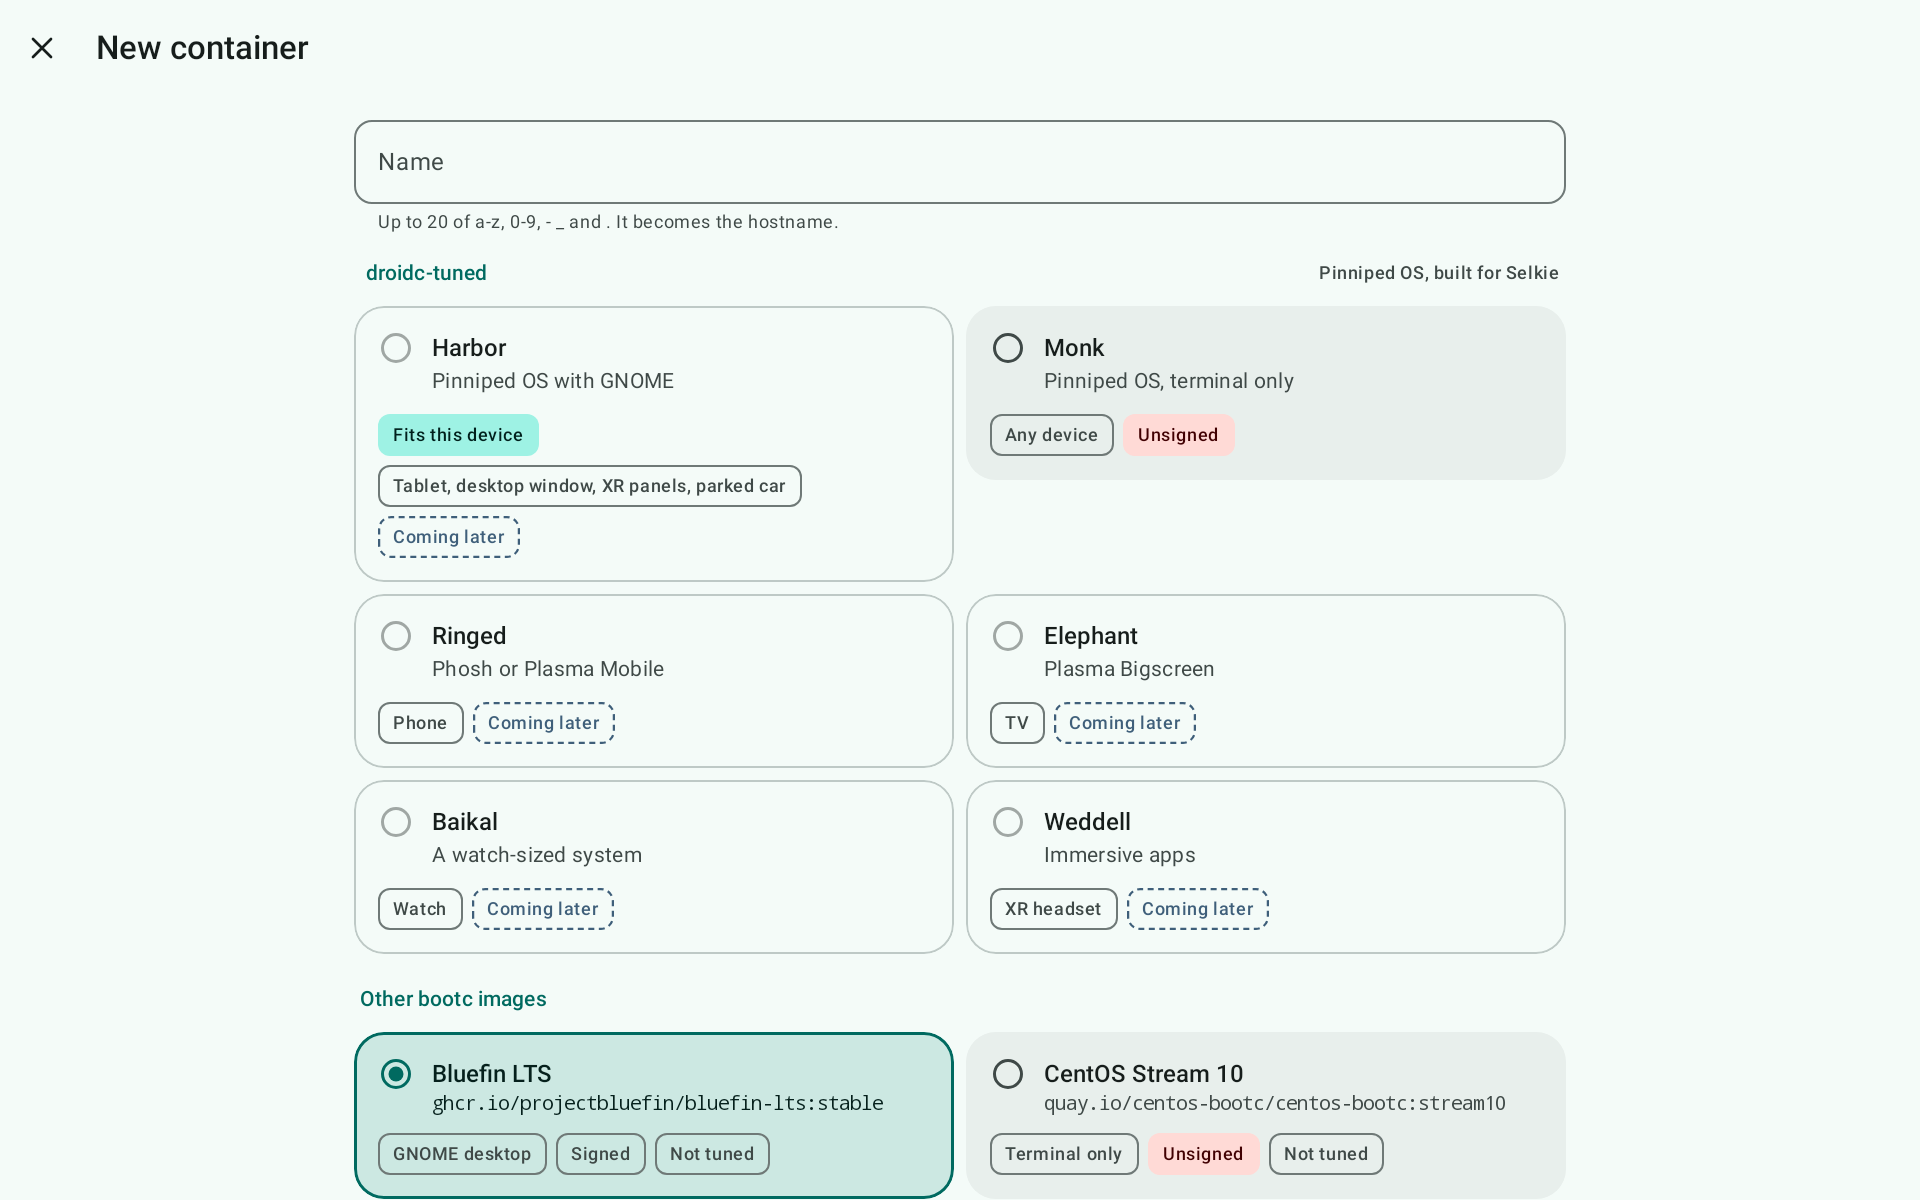
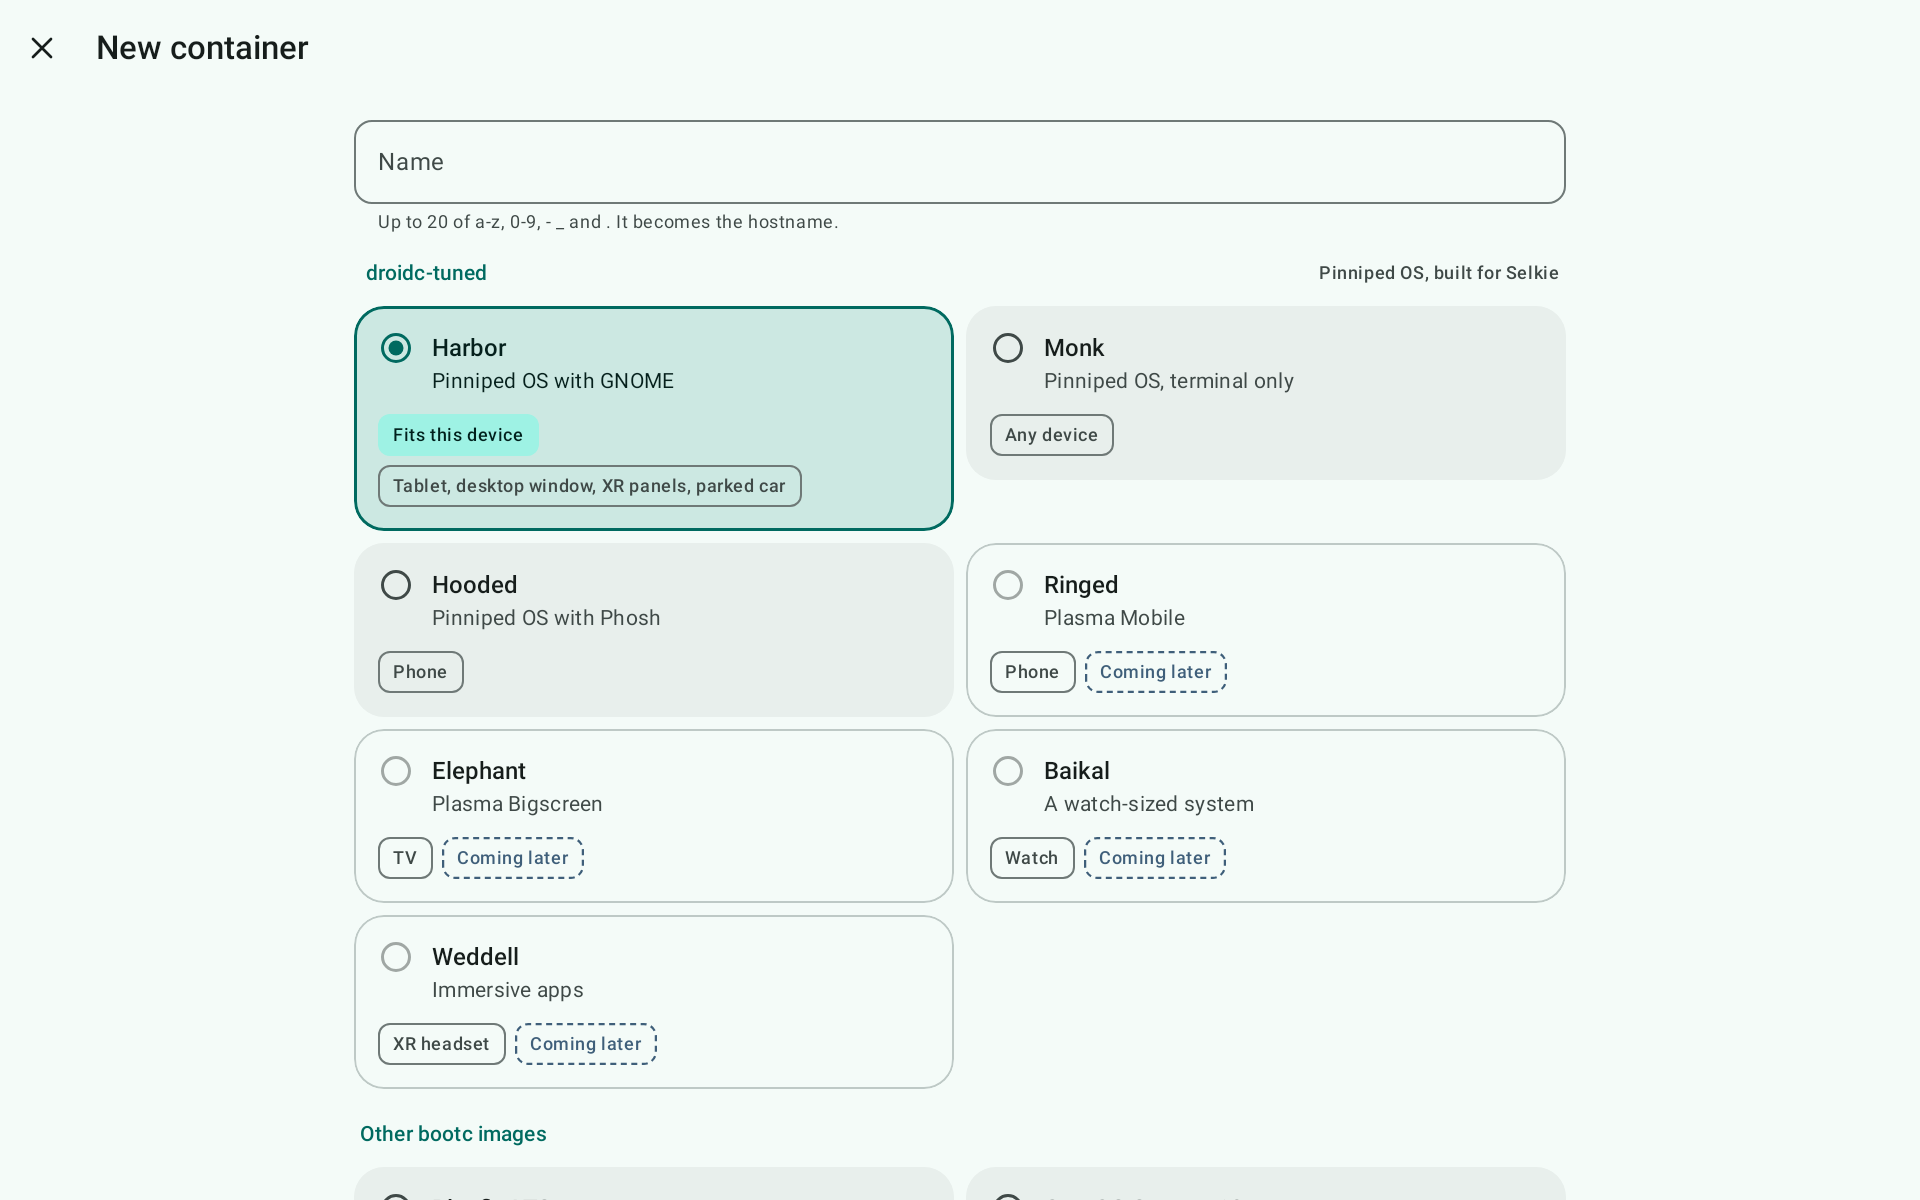
feat(picker): offer and trust Pinniped OS Harbor, Monk and Hooded (#183)
* feat(picker): offer Pinniped OS as the droidc-tuned images

Monk and Harbor are now Pinniped OS images (github.com/Pinniped-OS/factory).
Their summaries name Pinniped OS, the picker header says so, and a
PinnipedOs helper builds the factory's <image>:<release>-droidc refs.

Tuned variants gain a signed flag, false until droidc trusts Pinniped OS,
so a published one shows an Unsigned chip and asks before installing
unchecked instead of claiming a signature it doesn't have.

No ref is set yet: monk:45-droidc is built but ghcr.io doesn't serve it
without a sign-in, and harbor's droidc overlay isn't built.

[record screenshots]

* Re-record UI screenshots

Recorded by the record-screenshots job in run 46117178953.

* test(picker): cover Pinniped OS refs and unsigned tuned images

* feat(picker): offer Pinniped OS Monk now that it is published

ghcr.io/pinniped-os/monk:45-droidc now pulls without a sign-in (amd64
and arm64 in one index), so Monk gets its ref and can be chosen. It
stays unsigned until droidc trusts Pinniped OS, so it shows the
Unsigned chip and asks before installing.

An unsigned variant is never preselected: the preselection note
promises a signature check, so devices keep Bluefin LTS preselected
until a signed tuned image is ready, and the note says the Selkie
images aren't signed yet rather than not published.

Harbor's droidc overlay isn't published yet; its ref stays null.

[record screenshots]
[…]

Changed region(s): [[0.1875, 0.2467, 0.8125, 1.0], [0.5312, 0.8633, 0.7812, 0.9867], [0.5938, 0.3392, 0.625, 0.37]]

diff --git a/app/src/test/kotlin/io/github/keplersj/selkie/ui/ImageCatalogTest.kt b/app/src/test/kotlin/io/github/keplersj/selkie/ui/ImageCatalogTest.kt
@@ -7,58 +7,66 @@ import org.junit.Assert.assertTrue
 import org.junit.Test
 
 class ImageCatalogTest {
-    /** The catalog with Harbor and Monk published and trusted, as the design assumes. */
-    private val published = ImageCatalog.tuned.map {
-        when (it.name) {
-            "Harbor" -> it.copy(ref = PinnipedOs.droidcRef("harbor"), signed = true)
-            "Monk" -> it.copy(ref = PinnipedOs.droidcRef("monk"), signed = true)
-            else -> it
-        }
-    }
-
-    private fun names(d: DeviceClass, v: List<TunedVariant> = published) = ImageCatalog.orderedFor(d, v).map { it.name }
+    private fun names(d: DeviceClass, v: List<TunedVariant> = ImageCatalog.tuned) = ImageCatalog.orderedFor(d, v).map { it.name }
 
     @Test fun phoneOrderPutsTheFittingVariantFirstThenAnyDevice() {
-        assertEquals(listOf("Ringed", "Monk", "Harbor", "Elephant", "Baikal", "Weddell"), names(DeviceClass.Phone))
+        assertEquals(
+            listOf("Hooded", "Ringed", "Monk", "Harbor", "Elephant", "Baikal", "Weddell"),
+            names(DeviceClass.Phone),
+        )
     }
 
     @Test fun tabletAndXrOrder() {
-        assertEquals(listOf("Harbor", "Monk", "Ringed", "Elephant", "Baikal", "Weddell"), names(DeviceClass.Tablet))
-        assertEquals(listOf("Harbor", "Weddell", "Monk", "Ringed", "Elephant", "Baikal"), names(DeviceClass.Xr))
-        assertEquals(listOf("Harbor", "Ringed", "Monk", "Elephant", "Baikal", "Weddell"), names(DeviceClass.Foldable))
+        assertEquals(
+            listOf("Harbor", "Monk", "Hooded", "Ringed", "Elephant", "Baikal", "Weddell"),
+            names(DeviceClass.Tablet),
+        )
+        assertEquals(
+            listOf("Harbor", "Weddell", "Monk", "Hooded", "Ringed", "Elephant", "Baikal"),
+            names(DeviceClass.Xr),
+        )
+        assertEquals(
+            listOf("Harbor", "Hooded", "Ringed", "Monk", "Elephant", "Baikal", "Weddell"),
+            names(DeviceClass.Foldable),
+        )
     }
 
-    @Test fun phonePreselectsMonkOncePublished() {
-        assertEquals(ImageSelection.Tuned("Monk"), ImageCatalog.defaultSelection(DeviceClass.Phone, published))
-        assertEquals(ImageSelection.Tuned("Harbor"), ImageCatalog.defaultSelection(DeviceClass.Tablet, published))
+    @Test fun theFittingSignedImageIsPreselected() {
+        assertEquals(ImageSelection.Tuned("Hooded"), ImageCatalog.defaultSelection(DeviceClass.Phone))
+        assertEquals(ImageSelection.Tuned("Harbor"), ImageCatalog.defaultSelection(DeviceClass.Tablet))
+        assertEquals(ImageSelection.Tuned("Monk"), ImageCatalog.defaultSelection(DeviceClass.Tv))
     }
 
     @Test fun withNoSignedTunedImageTheSignedBluefinIsPreselected() {
         val nothing = ImageCatalog.tuned.map { it.copy(ref = null) }
+        val unsigned = ImageCatalog.tuned.map { it.copy(signed = false) }
         for (d in DeviceClass.entries) {
             assertEquals(ImageSelection.Known("bluefin"), ImageCatalog.defaultSelection(d, nothing))
-            // Monk is published but unsigned, so it can be chosen and is never preselected.
-            assertEquals(ImageSelection.Known("bluefin"), ImageCatalog.defaultSelection(d))
+            // An unsigned image can be chosen but is never preselected.
+            assertEquals(ImageSelection.Known("bluefin"), ImageCatalog.defaultSelection(d, unsigned))
         }
     }
 
-    @Test fun monkIsPublishedFromPinnipedOs() {
-        val monk = ImageCatalog.tuned.first { it.name == "Monk" }
-        assertTrue(monk.ready)
-        assertEquals("ghcr.io/pinniped-os/monk:45-droidc", monk.ref)
-        assertFalse(ImageCatalog.tuned.first { it.name == "Harbor" }.ready)
+    @Test fun pinnipedOsDroidcImagesArePublished() {
+        val refs = ImageCatalog.tuned.filter { it.ready }.associate { it.name to it.ref }
+        assertEquals(mapOf(
+            "Harbor" to "ghcr.io/pinniped-os/harbor:45-droidc",
+            "Monk" to "ghcr.io/pinniped-os/monk:45-droidc",
+            "Hooded" to "ghcr.io/pinniped-os/hooded:45-droidc",
+        ), refs)
     }
 
     @Test fun anUnpublishedVariantResolvesToNothing() {
-        assertNull(ImageCatalog.resolve(ImageSelection.Tuned("Harbor"), ""))
-        assertEquals("ghcr.io/pinniped-os/harbor:45-droidc", ImageCatalog.resolve(ImageSelection.Tuned("Harbor"), "", published)?.ref)
+        assertNull(ImageCatalog.resolve(ImageSelection.Tuned("Ringed"), ""))
+        assertEquals("ghcr.io/pinniped-os/hooded:45-droidc",
+            ImageCatalog.resolve(ImageSelection.Tuned("Hooded"), "")?.ref)
     }
 
     @Test fun selectionForCurrentImage() {
         assertEquals(ImageSelection.Known("centos"), ImageCatalog.selectionFor(Images.CENTOS, DeviceClass.Phone))
         assertEquals(ImageSelection.Custom, ImageCatalog.selectionFor("ghcr.io/example/x:1", DeviceClass.Phone))
         assertEquals(ImageSelection.Tuned("Harbor"),
-            ImageCatalog.selectionFor("ghcr.io/pinniped-os/harbor:45-droidc", DeviceClass.Phone, published))
+            ImageCatalog.selectionFor("ghcr.io/pinniped-os/harbor:45-droidc", DeviceClass.Phone))
     }
 
     @Test fun centosIsMarkedUnsigned() {
@@ -91,11 +99,13 @@ class ImageCatalogTest {
     @Test fun pinnipedDroidcRefsFollowTheFactoryTagScheme() {
         assertEquals("ghcr.io/pinniped-os/monk:45-droidc", PinnipedOs.droidcRef("monk"))
         assertEquals("ghcr.io/pinniped-os/harbor:45-droidc", PinnipedOs.droidcRef("harbor"))
+        assertEquals("ghcr.io/pinniped-os/hooded:45-droidc", PinnipedOs.droidcRef("hooded"))
     }
 
-    @Test fun tunedVariantsAreUnsignedUntilDroidcTrustsThem() {
-        assertTrue(ImageCatalog.tuned.none { it.signed })
-        assertFalse(ImageCatalog.resolve(ImageSelection.Tuned("Monk"), "")!!.signed)
-        assertTrue(ImageCatalog.resolve(ImageSelection.Tuned("Monk"), "", published)!!.signed)
+    @Test fun publishedPinnipedOsImagesAreSigned() {
+        assertEquals(ImageCatalog.tuned.filter { it.ready }, ImageCatalog.tuned.filter { it.signed })
+        for (name in listOf("Harbor", "Monk", "Hooded")) {
+            assertTrue(ImageCatalog.resolve(ImageSelection.Tuned(name), "")!!.signed)
+        }
     }
 }

diff --git a/app/src/main/kotlin/io/github/keplersj/selkie/ui/ImageCatalog.kt b/app/src/main/kotlin/io/github/keplersj/selkie/ui/ImageCatalog.kt
@@ -47,15 +47,18 @@ sealed interface ImageSelection {
 }
 
 object ImageCatalog {
-    // Harbor and Monk are Pinniped OS's first two images. Monk's droidc overlay is published; Harbor only has the
-    // generic harbor:45 so far, so its ref stays null until PinnipedOs.droidcRef("harbor") is published. Set
-    // signed = true once droidc's default policy trusts Pinniped OS (droidc-dev/droidc#62).
+    // Harbor, Monk and Hooded are Pinniped OS's droidc overlays, all published and signed with its cosign key,
+    // which the droidc pinned in droidc.ref trusts by default (droidc-dev/droidc#148). Ringed and the rest have
+    // no Pinniped OS image yet, so their refs stay null.
     val tuned: List<TunedVariant> = listOf(
         TunedVariant("Harbor", "Pinniped OS with GNOME", "Tablet, desktop window, XR panels, parked car",
-            setOf(DeviceClass.Foldable, DeviceClass.Tablet, DeviceClass.Desktop, DeviceClass.Xr, DeviceClass.Car), ref = null),
+            setOf(DeviceClass.Foldable, DeviceClass.Tablet, DeviceClass.Desktop, DeviceClass.Xr, DeviceClass.Car),
+            ref = PinnipedOs.droidcRef("harbor"), signed = true),
         TunedVariant("Monk", "Pinniped OS, terminal only", "Any device", emptySet(),
-            ref = PinnipedOs.droidcRef("monk"), anyDevice = true),
-        TunedVariant("Ringed", "Phosh or Plasma Mobile", "Phone", setOf(DeviceClass.Phone, DeviceClass.Foldable), ref = null),
+            ref = PinnipedOs.droidcRef("monk"), signed = true, anyDevice = true),
+        TunedVariant("Hooded", "Pinniped OS with Phosh", "Phone", setOf(DeviceClass.Phone, DeviceClass.Foldable),
+            ref = PinnipedOs.droidcRef("hooded"), signed = true),
+        TunedVariant("Ringed", "Plasma Mobile", "Phone", setOf(DeviceClass.Phone, DeviceClass.Foldable), ref = null),
         TunedVariant("Elephant", "Plasma Bigscreen", "TV", setOf(DeviceClass.Tv), ref = null),
         TunedVariant("Baikal", "A watch-sized system", "Watch", setOf(DeviceClass.Watch), ref = null),
         TunedVariant("Weddell", "Immersive apps", "XR headset", setOf(DeviceClass.Xr), ref = null),
@@ -80,7 +83,7 @@ object ImageCatalog {
     }
 
     /**
-     * The first ready, signed variant in [orderedFor] order (Monk on a phone, once droidc trusts it), else
+     * The first ready, signed variant in [orderedFor] order (Hooded on a phone), else
      * Bluefin LTS. An unsigned variant can be chosen but is never preselected, since the preselection note
      * promises a signature check.
      */

diff --git a/app/src/main/kotlin/io/github/keplersj/selkie/ui/Previews.kt b/app/src/main/kotlin/io/github/keplersj/selkie/ui/Previews.kt
@@ -90,7 +90,10 @@ object Fixtures {
         exec = listOf("gnome-shell", "--headless", "--virtual-monitor", "{width}x{height}"),
         configured = true, source = "label")
     val noSession = GraphicalSession(configured = false)
-    /** What a Ringed-style image offers: Phosh and Plasma Mobile for phones, desktops for others. */
+    /**
+     * What an image with several pocket sessions offers (Hooded has Phosh, Ringed will have Plasma Mobile):
+     * phone shells, and desktops for other devices.
+     */
     val pocketSessions = listOf(
         SessionEntry("sm.puri.Phosh", "xdg", "Phosh", "Phone shell", listOf("phone"), runnable = true, renderer = "wayland"),
         SessionEntry("plasma-mobile", "xdg", "Plasma Mobile", null, listOf("phone"), runnable = true, renderer = "wayland"),
@@ -287,14 +290,8 @@ fun HomeErrorPreview() = Home(Fixtures.homeError)
 
 // --- New container and change image ---
 
-/** Harbor and Monk as if published and trusted, to show the design's preselection. */
-private val publishedVariants = ImageCatalog.tuned.map {
-    when (it.name) {
-        "Harbor" -> it.copy(ref = PinnipedOs.droidcRef("harbor"), signed = true)
-        "Monk" -> it.copy(ref = PinnipedOs.droidcRef("monk"), signed = true)
-        else -> it
-    }
-}
+/** The published Pinniped OS images as if droidc couldn't verify them, so Bluefin LTS is preselected. */
+private val unsignedVariants = ImageCatalog.tuned.map { it.copy(signed = false) }
 
 @PhonePreviews @TabletPreview
 @Composable
@@ -305,10 +302,10 @@ fun NewContainerPreview() = PreviewFrame {
 
 @PhonePreviews @TabletPreview
 @Composable
-fun NewContainerPublishedPreview() = PreviewFrame {
+fun NewContainerUnsignedPreview() = PreviewFrame {
     NewContainerScreen(existing = listOf("default"), onCreate = { _, _, _ -> }, onClose = noop, free = 96_636_764_160,
         device = deviceClassForWidth(androidx.compose.ui.platform.LocalConfiguration.current.screenWidthDp),
-        variants = publishedVariants)
+        variants = unsignedVariants)
 }
 
 @PhonePreviews
